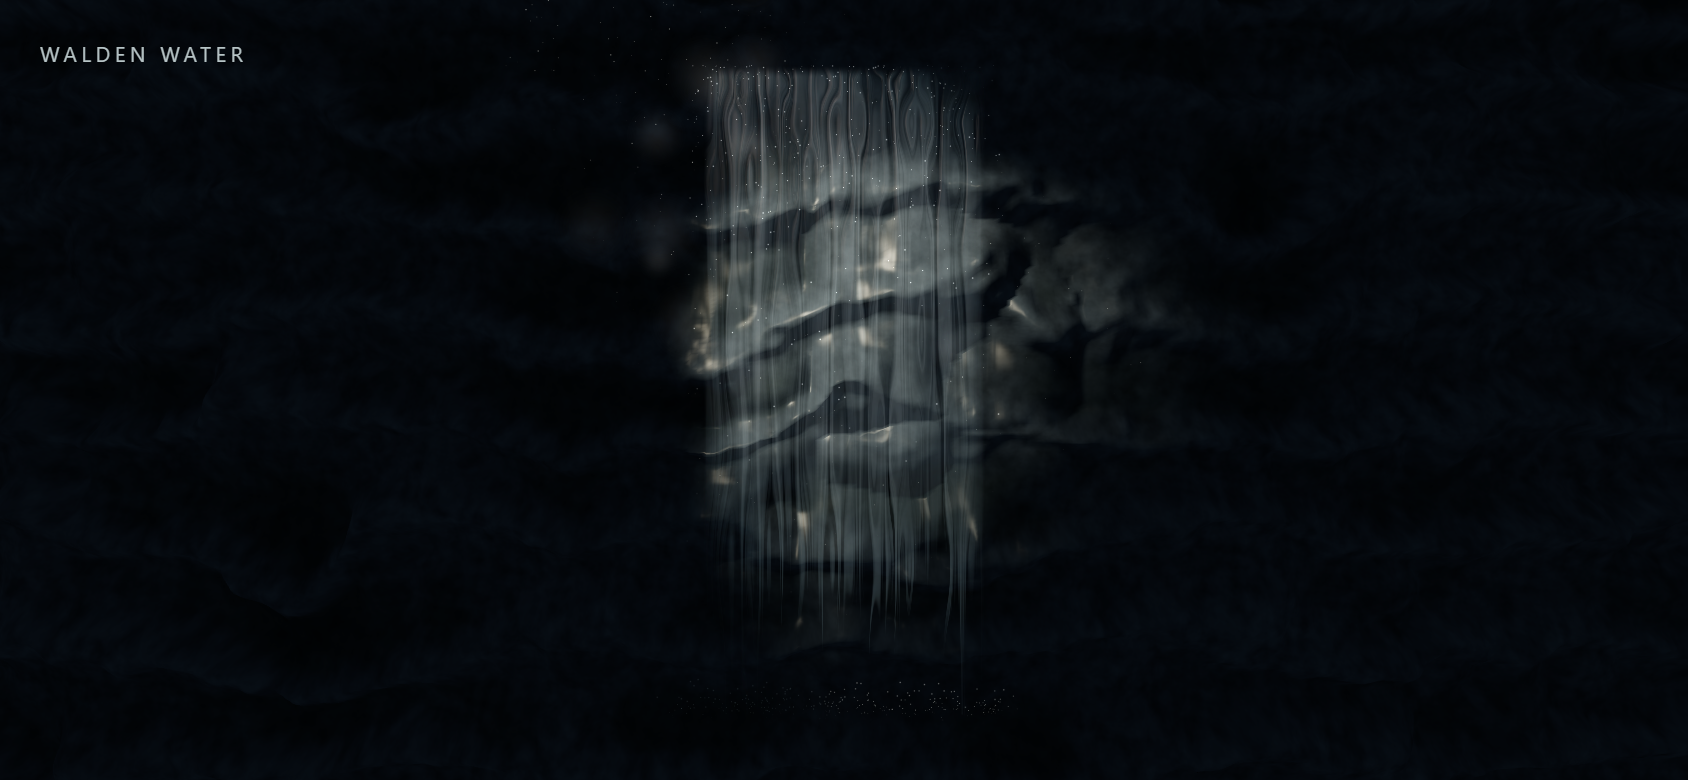
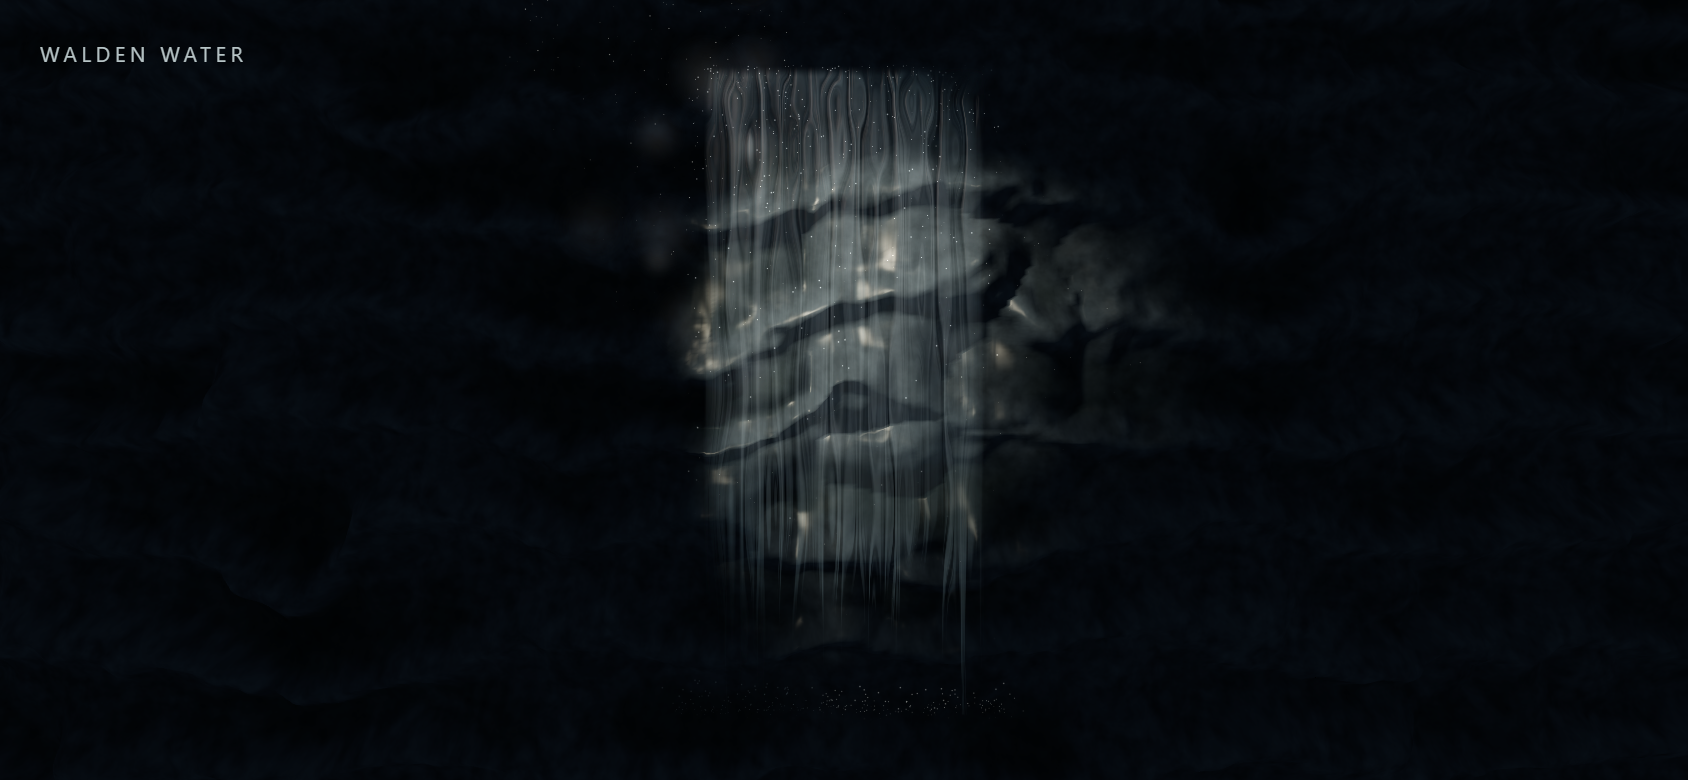
M6: composite split shaft segments as encoded differences
Fixes checkpoint r1 blocker: tone mapping and sRGB are concave, so encoding
the behind/front segments separately brightened the curtain footprint. Both
passes now integrate identical samples; the front adds E(total) - E(behind).
Debug views hide particles; beam noise gets its own lacunarity/gain.

diff --git a/src/config.js b/src/config.js
@@ -36,7 +36,7 @@ export const config = {
     mistCount: 36, mistSize: 0.55, mistOpacity: 0.09, mistSoftness: 1.6, mistDrift: 0.012, mistAlongStart: 3.5, mistAlongEnd: 7.5, mistColor: '#d8d2c4' },
   // M6 visible beam: the shared light integrated along each view ray (no separate light model).
   shaft: { enabled: true, view: 'shaft', intensity: 0.05, core: 2.5, samples: 14, softDepth: 0.35,
-    noise: 0.55, noiseScale: 1.2, drift: 0.06, streaks: 0.5, streakScale: 14, streakDrift: 0.02 },
+    noise: 0.55, noiseScale: 1.2, lacunarity: 2.03, gain: 0.45, drift: 0.06, streaks: 0.5, streakScale: 14, streakDrift: 0.02 },
   markers: { color: '#819598', opacity: 0, thickness: 0.018, overhang: 0.16, depth: 0.01 },
   timing: { maxDelta: 0.05 },
   // Fixed diagnostic protocol, not adjustable mid-sample; buffers allocated only in debug.
@@ -93,7 +93,7 @@ export const ranges = {
     mistCount: [0, 200, 4], mistSize: [0.05, 1.5, 0.01], mistOpacity: [0, 0.3, 0.001], mistSoftness: [0.5, 6, 0.1], mistDrift: [0, 0.1, 0.001],
     mistAlongStart: [0, 8, 0.1], mistAlongEnd: [1, 12, 0.1] },
   shaft: { intensity: [0, 1, 0.001], core: [1, 6, 0.05], samples: [4, 48, 1], softDepth: [0.01, 2, 0.01],
-    noise: [0, 1, 0.01], noiseScale: [0.1, 6, 0.05], drift: [0, 0.5, 0.005], streaks: [0, 1, 0.01], streakScale: [1, 40, 0.5], streakDrift: [0, 0.2, 0.001] },
+    noise: [0, 1, 0.01], noiseScale: [0.1, 6, 0.05], lacunarity: [1.1, 3, 0.01], gain: [0.1, 0.8, 0.01], drift: [0, 0.5, 0.005], streaks: [0, 1, 0.01], streakScale: [1, 40, 0.5], streakDrift: [0, 0.2, 0.001] },
   markers: { opacity: [0, 1, 0.01], thickness: [0.005, 0.05, 0.001], overhang: [0, 0.4, 0.01], depth: [0.001, 0.05, 0.001] },
   timing: { maxDelta: [0.016, 0.1, 0.001] },
 };

diff --git a/src/scene/LightShaft.js b/src/scene/LightShaft.js
@@ -34,7 +34,7 @@ export function createLightShaft(config, time, light, camera, sceneDepth) {
     for (const [name, key] of Object.entries(bindings)) shared[name].value = s[key];
     shared.uCameraFar.value = config.camera.far;
     shared.uCurtainWidth.value = config.curtain.width; shared.uCurtainHeight.value = config.curtain.height; shared.uCurtainBow.value = config.curtain.bow;
-    shared.uLacunarity.value = config.water.lacunarity; shared.uGain.value = config.water.gain;
+    shared.uLacunarity.value = s.lacunarity; shared.uGain.value = s.gain;
     shared.uView.value = choices.shaft.view.indexOf(s.view);
     // Debug views replace the frame so depth/segment values read directly.
     const blending = shared.uView.value === 0 ? AdditiveBlending : NoBlending;

diff --git a/src/scene/createScene.js b/src/scene/createScene.js
@@ -44,6 +44,8 @@ export function createScene(config, time, renderer, pointers) {
     curtain.configure(bufferWidth, bufferHeight, target.width, target.height);
     particles.configure(bufferHeight, view.camera);
     shaft.configure();
+    // Shaft debug views are measurements: keep particles from drawing over them.
+    if (config.shaft.view !== 'shaft') for (const object of particles.objects) object.visible = false;
     markerMaterial.color.set(config.markers.color);
     markerMaterial.opacity = config.markers.opacity;
     lip.visible = poolLine.visible = config.markers.opacity > 0;

diff --git a/docs/reviews/M6-checkpoint-r1.md b/docs/reviews/M6-checkpoint-r1.md
@@ -1,0 +1,64 @@
+# M6 checkpoint — revision 1
+
+- Mode: CHECKPOINT
+- Base SHA: `900eb9648d58cb68ad735915c9561f454c87aaff` (accepted M5)
+- Reviewed head SHA: `392db933f75a70353dc4ee4ed5af7496565d7706` (`git rev-parse HEAD` verified)
+- Review workspace: `scratchpad/m5-review` (detached at HEAD); preview at `http://127.0.0.1:5176/` (`--strictPort`)
+- Reviewer: Claude
+- Verdict: **DRAFT FEEDBACK**
+- Advancement: **not approved by checkpoint**
+
+Draft feedback does not approve M6. The blocking finding below halts beam art tuning until it is fixed, because tuning on top of it would bake in the artifact.
+
+## Blocking findings
+
+1. **The beam is brighter wherever it crosses the curtain, with hard edges at the curtain sides and lip.** Location: `src/shaders/shaft.frag.glsl:95,111-112` together with the two-pass split in `src/scene/LightShaft.js:22-30`.
+   - **Cause:**
+     - The ray integral is split at the resting curtain into two passes.
+     - Each pass applies `<tonemapping_fragment>` + `<colorspace_fragment>` (ACES then sRGB encode) on its own, and the results are added in display space.
+     - Both curves are concave, so E(behind) + E(front) > E(behind + front).
+     - Every pixel whose ray crosses the curtain footprint therefore gets more beam than its unsplit neighbour. The step appears exactly on the curtain's x = ±width/2 lines and the lip (y = height).
+   - **The builder's wet-sheen explanation is refuted.** The step persists with `wet.sheen=false`, the curtain hidden, and rock, background and bounce all black: a pure shaft-only image. It also scales with intensity the way per-pass encoding predicts. 8-bit inside/outside ratios at the left edge, rows 300–380, 1440×900:
+     - Intensity 0.01: 1.14 (mostly in the linear sRGB toe).
+     - Intensity 0.05 (default): 70 → 96 (×1.37).
+     - Intensity 0.15: ×1.50.
+     - Intensity 0.6: saturated.
+     - Lip edge: 69 → 78 at default.
+   - **It shows in the normal composite.** At default settings with the curtain visible, the shaft's own contribution jumps 70 → 95 across the curtain's left edge (average of 6 frames, with the curtain and markers located in captures). The bright rectangle is visible by eye in `step-default-full.png` and `edge-G0.png`. The wide-cone and apex-in-view light tests show the same footprint rectangle.
+   - **Consequence:** a hard beam intersection outlining the curtain, which the visual-intent rule forbids ("no … hard beam intersections"). Tuning intensity or core would only hide it.
+   - **Minimal fix:** keep the sum exact for unoccluded rays.
+     - The behind pass outputs E(Lb).
+     - The front pass integrates both segments and outputs E(Lb + Lf) − E(Lb).
+     - Alternatively, accumulate the linear beam in one target and encode once.
+   - **Retest:** curtain hidden with black rock at intensities 0.05/0.15/0.6. Expect no step at x = ±1.4 m or at the lip. With the curtain visible, only the water's own transmission should change the beam inside the footprint.
+
+## Non-blocking findings
+
+- **GPU cost.** At 1440×900 DPR1, idle (desktop, display at about 57 Hz in both runs), GPU median/p95 is 3.53/5.34 ms with the shaft off and 4.55/7.67 ms with it on: +1.0 ms median (+29%) and +2.3 ms p95. The frame median moved 17.6 → 17.8 ms, so the trigger is not fired here. Two full-screen passes with 14 fBm samples at phone DPR2 (about 3 MP) are the main fill-rate risk. Consider a single full-screen pass, early-out of pixels outside the cone's screen bounds, or a half-resolution beam. Owner: builder. Due: M6 full review with a matched run.
+- **Debug views get particles drawn over them.** The depth/segment/split views are overdrawn by particles (renderOrder 3+), so readings are polluted by dust and mist. Hide particles while a shaft debug view is active, or draw the debug view last. Owner: builder. Due: M6 full review.
+- **Beam texture borrows water settings.** `beamTexture` borrows `water.lacunarity` and `water.gain`, so retuning water changes the beam. Give `config.shaft` its own pair. Owner: builder. Due: M6 full review.
+- **Pre-existing context-restore warnings.** HMR after a forced context restore still logs "object does not belong to this context" warnings. This is the existing M8 item.
+
+## Evidence and rubric
+
+| Check | Result | Observation (scripts and images in `review-scratch/`, `out-m6/`) |
+| --- | --- | --- |
+| Depth source | PASS | Resolved MSAA `DepthTexture` from the same-frame wall capture (`m6depth.mjs`). Portrait with particles off: depth views for samples 0, byte capture, wallResolution 0.5, three orientation round trips, context loss/restore and HMR are all within 0–5/255 of the reference. Most variants have 0% of pixels off by more than 3; half resolution has 0.001%. Landscape differences are only particles. Textures stay at 5 after rebuilds (the old depth texture is disposed). |
+| Linearisation, near/far | PASS | With the wall flat (displacement off), the centre distance reads 10.0 m against 9.388 + 0.6 = 9.99 expected in landscape, and 11.27 m against 11.25 in portrait. The row profile follows 1/cos out to a 39.7° half-angle, matching the 42° vertical FOV at aspect 2.16. Unprojection uses the live `projectionMatrixInverse` and `matrixWorld`; no-hit maps to `camera.far`. |
+| Cone interval | PASS | The algebra was checked case by case: camera inside, outside, inside the backward nappe, parallel (a≈0), and through the apex. Moved-light runs (camera inside a 30° cone, apex on screen, cone pointing away, grazing 10° cone through the camera, 60° cone): no NaNs, backward-nappe leaks or seams, and no console warnings. The GUI range keeps half-angles at 40° or less. |
+| Curtain split | **FAIL** | See blocker 1. The split geometry itself is correct (split view); the error is in output encoding. |
+| Render-order isolation | PASS | The shaft is not in the wall capture scene (`sourceObjects: ['wall']`). It samples only the capture's depth, never its own output target. Behind pass: transparent renderOrder 0, after the opaque background and before the water (1). Front pass: 2.5. |
+| Hard clipping/sorting | PASS except the blocker | The soft depth fade removes wall-contact lines (`raised-smooth`). Additive blending means no sorting issue. |
+| Tests/build | PASS | `npm ci`; `npm test` 23/23; `npm run build` OK (602.10 kB, existing chunk-size warning). |
+| Phone | UNVERIFIED | Desktop Edge 155 emulation only. |
+
+## Manual verification
+
+1. In `?debug`, hide the curtain, set rock colour, bounce and background to black, and shaft intensity to 0.15 with noise and streaks at 0. Expected after the fix: a smooth beam with no rectangle at the curtain footprint.
+2. Restore defaults. Expected: no visible beam step at the curtain's left edge or at the lip.
+3. Switch the shaft view to depth, rotate, then force context loss/restore. Expected: an unchanged greyscale distance image.
+4. Move the light so the camera sits inside the cone. Expected: a uniform haze, with no seams.
+
+## Gaps and next gate
+
+Art tuning, glint balance against the beam, phone cost, and the full-M6 matched timing remain open. The full M6 review must use the exact head after blocker 1 is fixed.

diff --git a/docs/scene-contract.md b/docs/scene-contract.md
@@ -1,4 +1,4 @@
-# Scene contract through M5
+# Scene contract through M6
 
 World units are metres. +Y points up and +Z points toward the camera. The
 curtain is centred at x=0, z=0, extends from y=0 (pool) to y=6 (lip), and is
@@ -324,3 +324,57 @@ metres in front of the undisplaced wall. Dust colour is the dim stone-toned
 water sparkle); mist uses `mistColor`. Outside the mask they add exactly zero. `density`
 keeps a seeded random subset of the dust capacity live without a rebuild. The visible
 shaft volume remains M6.
+
+<a id="m6-shaft"></a>
+
+## M6 volumetric shaft
+
+`createLightShaft()` (`src/scene/LightShaft.js`, `shaders/shaft.frag.glsl`)
+draws the visible beam as two fullscreen additive passes of one shader, with
+no cone mesh. Per pixel, the shader:
+
+1. Builds the view ray from `cameraPosition` and the live
+   `camera.projectionMatrixInverse` / `camera.matrixWorld` (uniforms reference
+   the camera's own matrices, so drift/resize need no copies).
+2. Intersects the ray with the shared light's forward cone (apex
+   `uLightPosition`, axis `uLightDirection`, `uLightCosOuter`). The nappe is
+   convex, so the inside set is one interval; a camera inside the cone starts
+   at t=0.
+3. Clips the interval at the wall: `WallCapture` attaches a `DepthTexture` to
+   its (MSAA) target, which Three blit-resolves after the wall pass. The
+   shader unprojects (uv, depth) with the same camera, so linearisation and
+   near/far come from the projection itself. Depth 1 (no wall) clips at
+   `camera.far`.
+4. Splits the interval at the resting curtain (analytic bow, two fixed-point
+   steps; only inside the sheet rectangle). The **behind** segment draws at
+   renderOrder 0, after the background (−1) and before the water (1), so the
+   translucent sheet attenuates it. The **front** segment draws at 2.5, before
+   the particles (3+). Outside the sheet rectangle the whole ray is "front".
+5. Integrates `pow(shaftMask(p), shaft.core) × beamTexture(p) × soft` over
+   `shaft.samples` jittered steps (interleaved-gradient per-pixel offset).
+   `soft` = smoothstep(0, `softDepth`, wallDistance − t) fades samples close
+   to the captured surface. Colour = light colour × light intensity ×
+   `shaft.intensity` × integral. Both passes integrate the **whole** interval
+   at identical sample positions, separating the part behind the curtain.
+   The output transform E (ACES, then sRGB) is concave, so encoding each part
+   separately and adding them brightened split pixels: a visible step at the
+   curtain outline (checkpoint r1 blocker). The behind pass outputs
+   E(behind); the front pass outputs E(behind + front) − E(behind). With
+   nothing between them they sum to exactly E(total), and the water still
+   attenuates the behind pass. Zero-contribution pixels are discarded.
+
+The beam therefore uses exactly the shared light data (position, direction,
+cone, penumbra, axial fade 6→10 m, colour, intensity): moving the light in the
+GUI moves the beam, the rock/water lighting and the dust together. The
+axial fade ends before the axis reaches the pool. Because brightness is an
+integral that shrinks continuously as the ray nears geometry, no surface ever
+cuts through a volume mesh, so there are no hard intersection lines; real
+occlusion by nearer rock is preserved by the depth clip.
+
+`beamTexture` multiplies radial streaks (value noise in the cone's angular
+coordinates, which converge on the source like god rays) with slowly
+drifting fBm (`shaft.lacunarity/gain`). Both factors have mean ≈1.
+The shaft is not in the wall capture, so refraction never samples it, and
+neither pass renders into a texture it reads. Debug views (`shaft.view`)
+replace the frame and hide particles: `depth` (wall distance, 25 m = white), `segment` (in-cone
+ray length, 6 m = white), `split` (red behind / green front, 4 m = full).

diff --git a/REVIEW_NOTES.md b/REVIEW_NOTES.md
@@ -331,6 +331,12 @@
 - **Accepted M5 implementation head: `900eb9648d58cb68ad735915c9561f454c87aaff` (M6 BASE_SHA).** Published to GitHub Pages at the user's request ("fix … before pushing M5"). Physical-phone check of the new splash/dust look is requested from the user.
 - New nits (owner builder): presses within ~0.26 m of the lip start droplets above the water line; clamp the start height to the curtain top (M7). One seed drives bounce, lifetime and vertical spread together; decorrelate if patterns appear (M9). All earlier nits keep their owners/dates.
 
+### M6 — Early checkpoint r1 and fix
+
+- Checkpoint `392db933f75a70353dc4ee4ed5af7496565d7706` (BASE `900eb96`): [draft feedback r1](docs/reviews/M6-checkpoint-r1.md). Verified: the depth source (MSAA resolve, 0 samples, byte capture, wallResolution 0.5, orientation, context restore, HMR); unprojection/near-far within 0.02 m; cone-interval cases including camera inside and grazing cones; render-order isolation.
+- **Blocker, fixed.** Per-pass tone mapping/sRGB of the split behind/front segments brightened pixels inside the curtain outline. The builder's "wet-sheen" explanation was wrong; the reviewer reproduced the step with the shaft alone. Now both passes integrate identical samples; behind outputs E(behind), front outputs E(total) − E(behind). Retest [`docs/evidence/M6/seam.mjs`](docs/evidence/M6/seam.mjs): shaft only, curtain hidden, black rock/background, intensities 0.05/0.15/0.6. Profiles across the curtain's left edge and lip are smooth and monotonic (e.g. 0.05: 86→109 over x 530–565 with no jump; previously 70→96 at the edge).
+- Nits addressed now: debug views hide particles; beam fBm has its own `shaft.lacunarity/gain`. Remaining: shaft GPU cost (+1.0 ms median desktop in the reviewer's run) and fill-rate options (single pass / half resolution), measured and dispositioned in the full M6 submission.
+
 ### M<n> — <summary>
 
 - Status:
